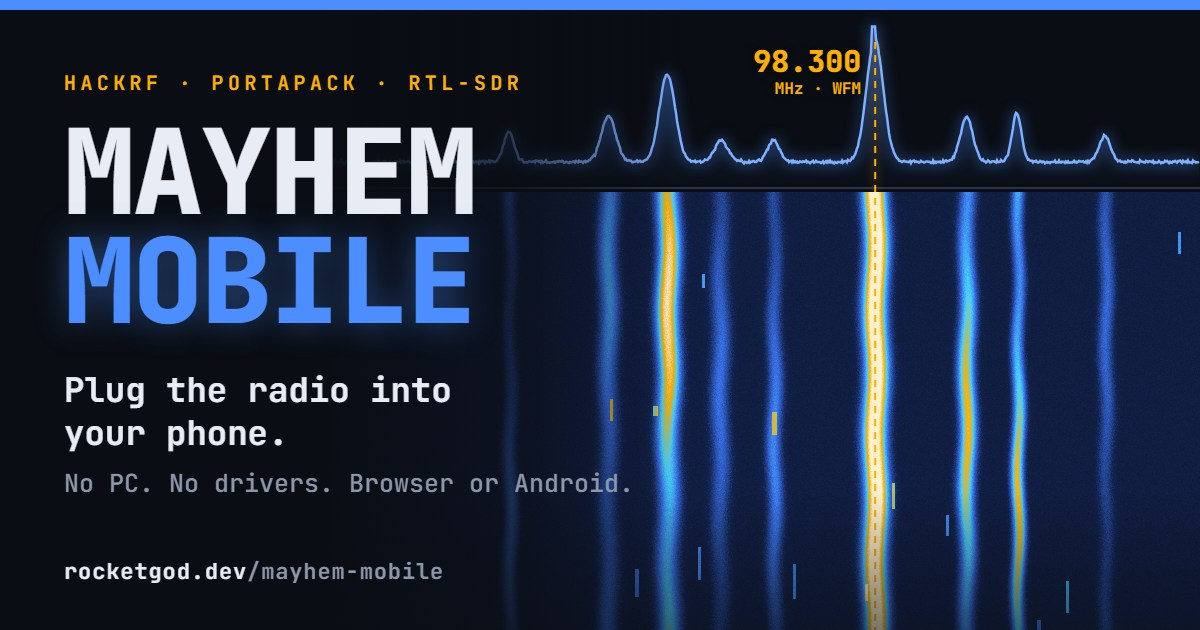
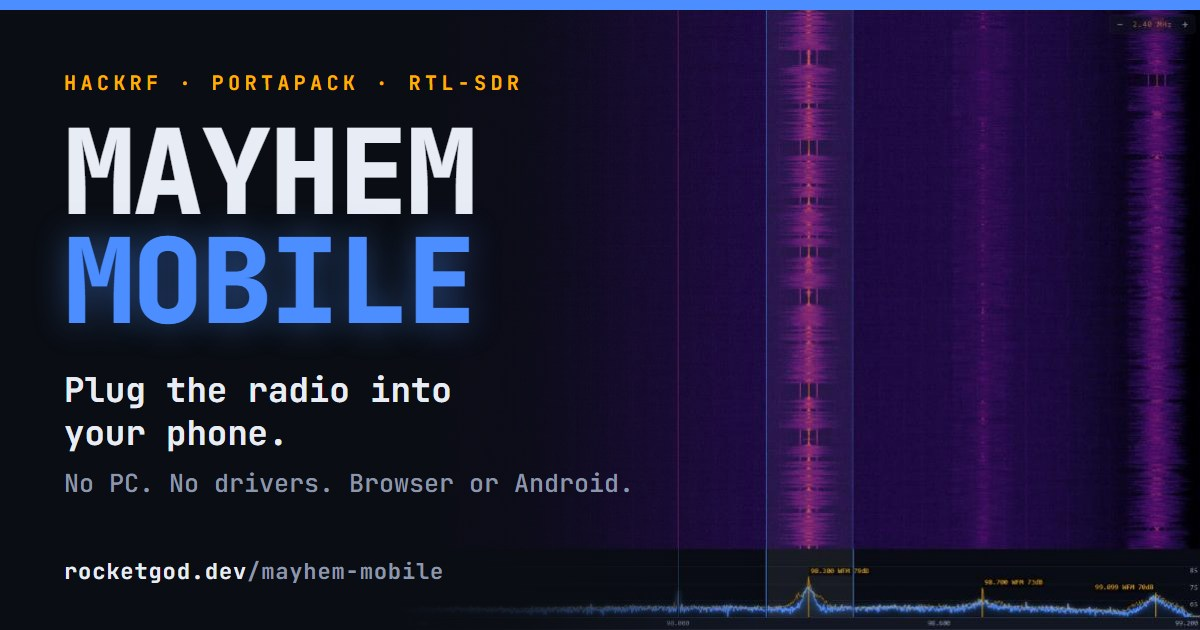
Web: link preview shows the real app
The card's radio picture is now a screenshot of the web app itself on
broadcast FM with an RTL-SDR Blog V4 - waterfall, spectrum with its amber
station labels, and the frequency axis along the bottom - instead of a
drawn waterfall in made-up colors. The image URL carries ?v=2 so Discord
and the rest fetch it fresh.

diff --git a/play/og-image.html b/play/og-image.html
@@ -1,12 +1,15 @@
 <!doctype html>
 <!--
   Source for web/assets/og.jpg, the 1200x630 link-preview image (og:image / twitter:image).
-  Render with Edge or Chrome headless:
+
+  The radio picture is a real screenshot of the app (og-app.png): the web app's launcher on broadcast FM with an
+  RTL-SDR Blog V4, cropped from the top of the waterfall to the frequency axis. Nothing in it is drawn.
+
+  Render with Edge or Chrome headless, then save as a quality-90 JPEG to web/assets/og.jpg:
     msedge --headless=new --hide-scrollbars --window-size=1200,630 --virtual-time-budget=6000
            --user-data-dir=<temp dir> --screenshot=og.png file:///.../play/og-image.html
-  then save it as a quality-90 JPEG to web/assets/og.jpg (the PNG is ~700 KB of waterfall noise; the JPEG ~120 KB).
-  --user-data-dir matters when Edge is already open: without it the headless run joins that instance and writes nothing.
-  The waterfall is drawn from a seeded generator, so the same file always renders the same picture.
+  --user-data-dir matters when Edge is already open: without it the headless run joins that instance and writes
+  nothing.
 -->
 <html>
 <head>
@@ -14,27 +17,29 @@
 <link rel="preconnect" href="https://fonts.googleapis.com">
 <link rel="stylesheet" href="https://fonts.googleapis.com/css2?family=JetBrains+Mono:wght@500;700;800&display=block">
 <style>
-  :root {
-    --paper: #0a0d13; --surface: #121722; --line: #2a3348;
-    --ink: #e8ecf4; --muted: #8d97ab; --accent: #4c8dff; --amber: #ffaf00;
-  }
+  :root { --paper: #0a0d13; --ink: #e8ecf4; --muted: #8d97ab; --accent: #4c8dff; --amber: #ffaf00; }
   * { box-sizing: border-box; margin: 0; }
   html, body { width: 1200px; height: 630px; overflow: hidden; background: var(--paper); }
   body { position: relative; font-family: "JetBrains Mono", ui-monospace, Consolas, monospace; color: var(--ink); }
-  canvas { position: absolute; inset: 0; }
-  .stripe { position: absolute; left: 0; top: 0; width: 100%; height: 10px; background: var(--accent); }
-  .copy { position: absolute; left: 64px; top: 70px; width: 600px; }
+  .stripe { position: absolute; left: 0; top: 0; width: 100%; height: 10px; background: var(--accent); z-index: 3; }
+  /* the real app panel, full height on the right, axis on the bottom edge as in the app */
+  .app { position: absolute; right: 0; top: 10px; height: 620px; width: auto; display: block; }
+  /* fade it into the paper under the type so the words sit on clean ground */
+  .fade { position: absolute; left: 0; top: 0; width: 760px; height: 100%;
+          background: linear-gradient(90deg, var(--paper) 0%, var(--paper) 52%, rgba(10,13,19,0.82) 70%, rgba(10,13,19,0) 100%); }
+  .copy { position: absolute; left: 64px; top: 70px; width: 600px; z-index: 2; }
   .eyebrow { font-weight: 700; font-size: 20px; letter-spacing: 0.22em; color: var(--amber); }
   .mark { margin-top: 22px; font-weight: 800; font-size: 118px; line-height: 0.92; letter-spacing: -0.02em; }
   .mark span { display: block; color: var(--accent); text-shadow: 0 0 34px rgba(76, 141, 255, 0.45); }
   .hook { margin-top: 34px; font-weight: 700; font-size: 34px; line-height: 1.25; }
   .sub { margin-top: 12px; font-weight: 500; font-size: 25px; color: var(--muted); }
-  .url { position: absolute; left: 64px; bottom: 44px; font-weight: 700; font-size: 22px; letter-spacing: 0.04em; color: var(--muted); }
+  .url { position: absolute; left: 64px; bottom: 44px; z-index: 2; font-weight: 700; font-size: 22px; letter-spacing: 0.04em; color: var(--muted); }
   .url b { color: var(--ink); font-weight: 700; }
 </style>
 </head>
 <body>
-<canvas id="c" width="1200" height="630"></canvas>
+<img class="app" src="og-app.png" alt="">
+<div class="fade"></div>
 <div class="stripe"></div>
 <div class="copy">
   <div class="eyebrow">HACKRF · PORTAPACK · RTL-SDR</div>
@@ -43,95 +48,5 @@
   <div class="sub">No PC. No drivers. Browser or Android.</div>
 </div>
 <div class="url"><b>rocketgod.dev</b>/mayhem-mobile</div>
-<script>
-// Canvas text does not wait for web fonts, so draw once the face the readout uses has loaded.
-Promise.all([document.fonts.load('800 30px "JetBrains Mono"'), document.fonts.load('700 16px "JetBrains Mono"')]).then(draw);
-function draw() {
-// ---- a seeded FM-band waterfall, drawn on the right and faded into the paper on the left ----------------
-let seed = 0x5eed1e;
-const rnd = () => { seed = (seed * 1664525 + 1013904223) >>> 0; return seed / 4294967296; };
-const gauss = () => { let s = 0; for (let i = 0; i < 6; i++) s += rnd(); return s / 6 - 0.5; };
-
-const W = 1200, H = 630, X0 = 470, SPEC_TOP = 34, SPEC_H = 150, WF_TOP = SPEC_TOP + SPEC_H + 8;
-const cv = document.getElementById('c'), g = cv.getContext('2d');
-
-// Stations across the span: x in px, width in px, strength 0..1. The tuned one carries the amber marker.
-const stations = [];
-for (let x = X0 + 40; x < W - 20; x += 46 + rnd() * 60) stations.push({ x, w: 7 + rnd() * 9, a: 0.25 + rnd() * 0.55 });
-const tuned = stations[Math.floor(stations.length * 0.62)]; tuned.a = 1; tuned.w = 15;
-stations[2].a = 0.85; stations[stations.length - 2].a = 0.7;
-
-// Colormap: paper -> deep blue -> accent blue -> cyan -> amber -> near white, like the app's waterfall.
-const stops = [[0, [10, 13, 19]], [0.22, [18, 34, 78]], [0.45, [56, 110, 230]], [0.65, [70, 210, 255]], [0.83, [255, 175, 0]], [1, [255, 246, 220]]];
-function cmap(v) {
-  v = Math.max(0, Math.min(1, v));
-  for (let i = 1; i < stops.length; i++) if (v <= stops[i][0]) {
-    const [p0, c0] = stops[i - 1], [p1, c1] = stops[i], t = (v - p0) / (p1 - p0);
-    return c0.map((c, k) => Math.round(c + (c1[k] - c) * t));
-  }
-  return stops[stops.length - 1][1];
-}
-
-// Short OOK bursts (remotes, sensors) as brief bright dashes.
-const bursts = Array.from({ length: 14 }, () => ({ x: X0 + 60 + rnd() * (W - X0 - 80), y: WF_TOP + rnd() * (H - WF_TOP), w: 1.2 + rnd() * 1.2, h: 10 + rnd() * 26, a: 0.3 + rnd() * 0.18 }));
-
-function level(x, y) {
-  let v = 0.18 + gauss() * 0.16;
-  for (const s of stations) {
-    const wob = Math.sin(y * 0.05 + s.x) * 1.4;                       // a little FM deviation
-    const d = (x - s.x - wob) / s.w;
-    const fade = s === tuned ? 1 : 0.75 + 0.25 * Math.sin(y * 0.013 + s.x * 0.1);
-    v += s.a * fade * Math.exp(-d * d * 1.6);
-  }
-  for (const b of bursts) if (Math.abs(x - b.x) < b.w && y > b.y && y < b.y + b.h) v += b.a;
-  return v;
-}
-
-// Waterfall body.
-const img = g.createImageData(W, H);
-for (let y = WF_TOP; y < H; y++) for (let x = X0 - 160; x < W; x++) {
-  const [r, gg, b] = cmap(level(x, y) * 0.95);
-  const i = (y * W + x) * 4; img.data[i] = r; img.data[i + 1] = gg; img.data[i + 2] = b; img.data[i + 3] = 255;
-}
-g.putImageData(img, 0, 0);
-
-// Spectrum panel above it: the averaged level as a glowing trace with a soft fill.
-const spec = [];
-for (let x = X0 - 160; x < W; x++) { let s = 0; for (let k = 0; k < 10; k++) s += level(x, WF_TOP + 4 + k * 3); spec.push([x, s / 10]); }
-const yOf = v => SPEC_TOP + SPEC_H - Math.min(1.05, v * 0.82) * SPEC_H;
-g.save();
-g.beginPath(); g.moveTo(spec[0][0], SPEC_TOP + SPEC_H);
-for (const [x, v] of spec) g.lineTo(x, yOf(v));
-g.lineTo(W, SPEC_TOP + SPEC_H); g.closePath();
-const fill = g.createLinearGradient(0, SPEC_TOP, 0, SPEC_TOP + SPEC_H);
-fill.addColorStop(0, 'rgba(76,141,255,0.35)'); fill.addColorStop(1, 'rgba(76,141,255,0.02)');
-g.fillStyle = fill; g.fill();
-g.beginPath(); spec.forEach(([x, v], i) => i ? g.lineTo(x, yOf(v)) : g.moveTo(x, yOf(v)));
-g.strokeStyle = '#7fb0ff'; g.lineWidth = 2.5; g.shadowColor = 'rgba(76,141,255,0.9)'; g.shadowBlur = 14; g.stroke();
-g.restore();
-g.fillStyle = '#2a3348'; g.fillRect(X0 - 160, SPEC_TOP + SPEC_H + 3, W, 2);
-
-// The amber tuning guide on the strongest station, with the readout the app shows.
-g.save();
-g.strokeStyle = '#ffaf00'; g.lineWidth = 2; g.setLineDash([7, 6]); g.shadowColor = 'rgba(255,175,0,0.8)'; g.shadowBlur = 10;
-g.beginPath(); g.moveTo(tuned.x, SPEC_TOP + 8); g.lineTo(tuned.x, H); g.stroke();
-g.restore();
-g.font = '800 30px "JetBrains Mono"'; g.fillStyle = '#ffaf00'; g.textAlign = 'right';
-g.shadowColor = 'rgba(0,0,0,0.9)'; g.shadowBlur = 8;
-g.fillText('98.300', tuned.x - 14, SPEC_TOP + 38);
-g.font = '700 16px "JetBrains Mono"'; g.fillText('MHz · WFM', tuned.x - 14, SPEC_TOP + 60);
-g.shadowBlur = 0;
-
-// Fade the whole radio picture into the paper so the type on the left sits on clean ground.
-const fade = g.createLinearGradient(X0 - 160, 0, X0 + 210, 0);
-fade.addColorStop(0, 'rgba(10,13,19,1)'); fade.addColorStop(0.55, 'rgba(10,13,19,0.72)'); fade.addColorStop(1, 'rgba(10,13,19,0)');
-g.fillStyle = fade; g.fillRect(0, 0, X0 + 210, H);
-g.fillStyle = 'rgba(10,13,19,1)'; g.fillRect(0, 0, X0 - 160, H);
-// and a light vignette at the bottom so the URL reads
-const vb = g.createLinearGradient(0, H - 140, 0, H);
-vb.addColorStop(0, 'rgba(10,13,19,0)'); vb.addColorStop(1, 'rgba(10,13,19,0.55)');
-g.fillStyle = vb; g.fillRect(0, H - 140, W, 140);
-}
-</script>
 </body>
 </html>

diff --git a/web/index.html b/web/index.html
@@ -11,13 +11,13 @@
   <meta property="og:title" content="Mayhem Mobile">
   <meta property="og:description" content="Plug a HackRF, PortaPack or RTL-SDR straight into your phone or PC. No drivers. PortaPack Mayhem's apps, HAM with FT8, rtl_433 and more, in the browser or on Android.">
   <meta property="og:url" content="https://rocketgod.dev/mayhem-mobile/">
-  <meta property="og:image" content="https://rocketgod.dev/mayhem-mobile/assets/og.jpg">
+  <meta property="og:image" content="https://rocketgod.dev/mayhem-mobile/assets/og.jpg?v=2">
   <meta property="og:image:type" content="image/jpeg">
   <meta property="og:image:width" content="1200">
   <meta property="og:image:height" content="630">
-  <meta property="og:image:alt" content="Mayhem Mobile: a radio waterfall tuned to 98.300 MHz beside the words Plug the radio into your phone. No PC. No drivers.">
+  <meta property="og:image:alt" content="Mayhem Mobile running on broadcast FM with an RTL-SDR: its waterfall, spectrum and station labels, beside the words Plug the radio into your phone. No PC. No drivers.">
   <meta name="twitter:card" content="summary_large_image">
-  <meta name="twitter:image" content="https://rocketgod.dev/mayhem-mobile/assets/og.jpg">
+  <meta name="twitter:image" content="https://rocketgod.dev/mayhem-mobile/assets/og.jpg?v=2">
   <title>Mayhem Mobile</title>
   <link rel="manifest" href="./manifest.webmanifest">
   <link rel="icon" href="./icon.svg" type="image/svg+xml">
